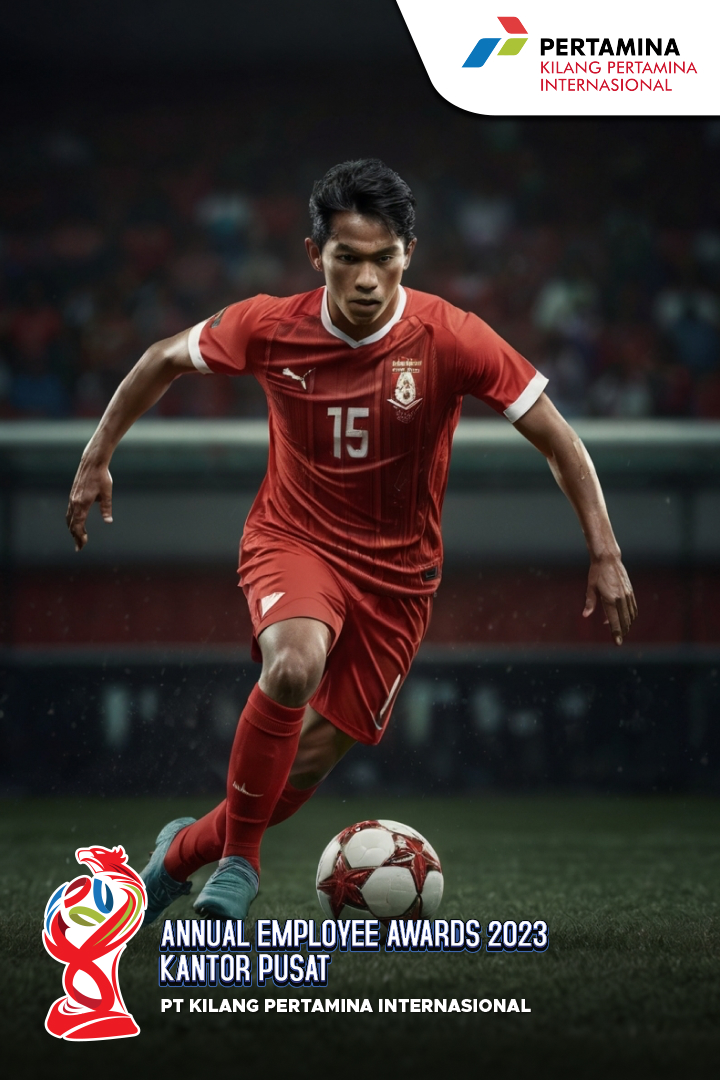
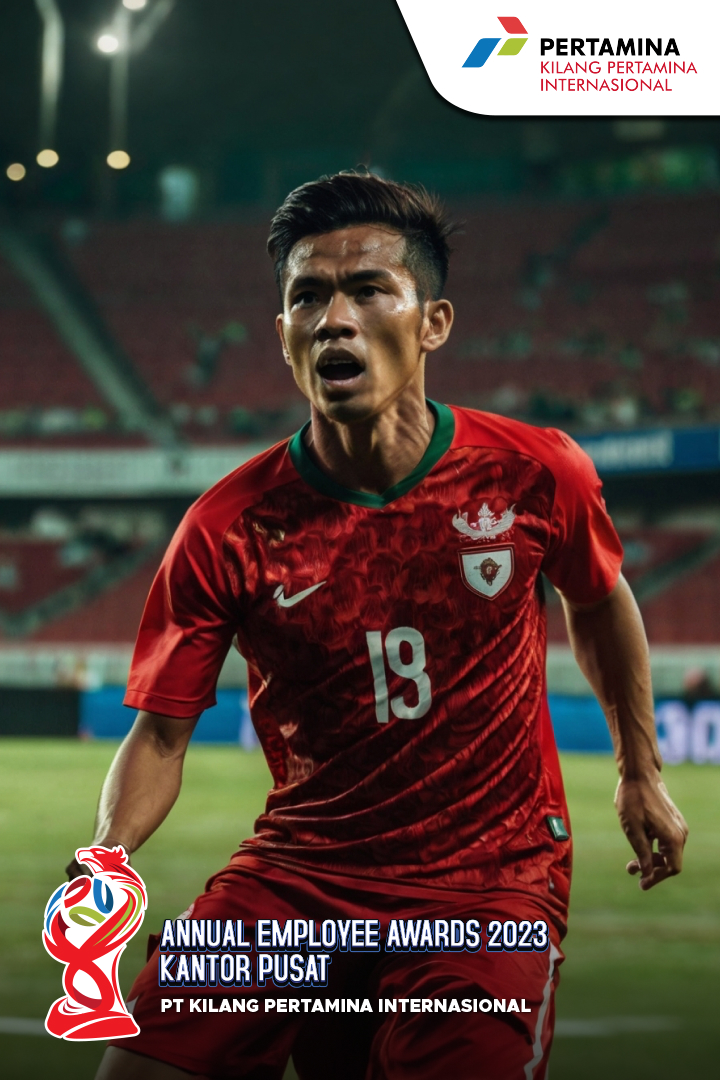
del

diff --git a/app/pertamina/style/page.js b/app/pertamina/style/page.js
@@ -33,7 +33,7 @@ export default function Register() {
         let urlGambar2 = '';
         let urlGambar3 = '';
         if(character == 'cowok'){
-            urlGambar = 'https://ai.zirolu.id/pertamina/style/cowok-'+getRandomInt(1, 11)+'.jpeg';
+            urlGambar = 'https://ai.zirolu.id/pertamina/style/cowok-'+getRandomInt(3, 11)+'.jpeg';
 
             if (typeof localStorage !== 'undefined') {
                 localStorage.setItem("styleFix", urlGambar)
